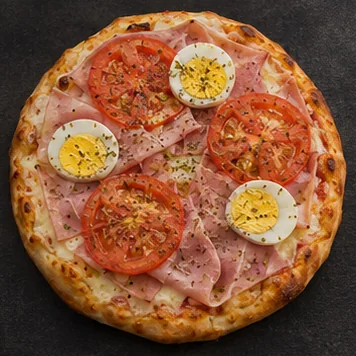
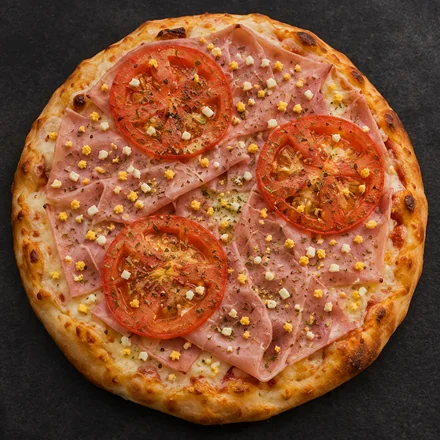
Show finely chopped egg on pizza menu photos

diff --git a/public/menu.js b/public/menu.js
@@ -103,7 +103,7 @@ export const products=[
     "id": "orderar-106",
     "name": "Jamón y Huevo",
     "category": "Pizzas clásicas",
-    "description": "Pizza con jamón y huevo.",
+    "description": "Pizza con jamón y huevo picado.",
     "price": 20000,
     "unit": ""
   },
@@ -223,7 +223,7 @@ export const products=[
     "id": "orderar-201",
     "name": "Bacon",
     "category": "Pizzas especiales",
-    "description": "Muzzarella, provolone, panceta, huevo",
+    "description": "Muzzarella, provolone, panceta, huevo picado",
     "price": 22000,
     "unit": ""
   },
@@ -271,7 +271,7 @@ export const products=[
     "id": "orderar-207",
     "name": "Primavera",
     "category": "Pizzas especiales",
-    "description": "Muzzarella, jamón, tomate en rodajas, huevo",
+    "description": "Muzzarella, jamón, tomate en rodajas, huevo picado",
     "price": 22000,
     "unit": ""
   },
@@ -295,7 +295,7 @@ export const products=[
     "id": "orderar-210",
     "name": "Gran Bacon",
     "category": "Pizzas especiales",
-    "description": "Muzzarella, panceta, barbacoa, huevo frito, provolone",
+    "description": "Muzzarella, panceta, barbacoa, huevo picado, provolone",
     "price": 22500,
     "unit": ""
   },
@@ -303,7 +303,7 @@ export const products=[
     "id": "orderar-300",
     "name": "Ponzzoni",
     "category": "Pizzas especiales",
-    "description": "Muzzarella, jamón, huevo y morrón. Bordes rellenos con salchichas",
+    "description": "Muzzarella, jamón, huevo picado y morrón. Bordes rellenos con salchichas",
     "price": 22000,
     "unit": ""
   },

diff --git a/public/index.html b/public/index.html
@@ -37,8 +37,8 @@
     <section class="section menu-section container" id="carta" aria-labelledby="menu-title">
       <div class="section-heading"><p class="eyebrow red">La carta</p><h2 id="menu-title">Siempre hay una favorita.</h2><p>Elegí la tuya. Del resto nos ocupamos nosotros.</p></div>
       <div class="favorites">
-        <article><span class="number">01 /</span><h3>Ponzzoni</h3><p>Muzzarella, jamón, huevo y morrón. Bordes rellenos con salchichas.</p></article>
-        <article><span class="number">02 /</span><h3>Bacon</h3><p>Muzzarella, provolone, panceta y huevo.</p></article>
+        <article><span class="number">01 /</span><h3>Ponzzoni</h3><p>Muzzarella, jamón, huevo picado y morrón. Bordes rellenos con salchichas.</p></article>
+        <article><span class="number">02 /</span><h3>Bacon</h3><p>Muzzarella, provolone, panceta y huevo picado.</p></article>
         <article><span class="number">03 /</span><h3>Rúcula y Jamón Crudo</h3><p>Muzzarella, fetas de jamón crudo y rúcula.</p></article>
       </div>
       <div class="center"><a href="#carta" class="button order-open" data-placement="menu">Conocé nuestra carta <span aria-hidden="true">→</span></a><p class="helper">Pizzas, empanadas, calzones, fainá y más. Sin crear una cuenta.</p></div>
